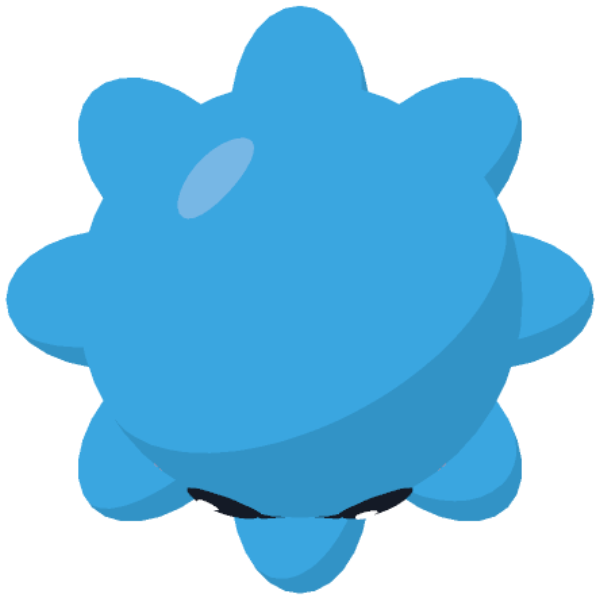
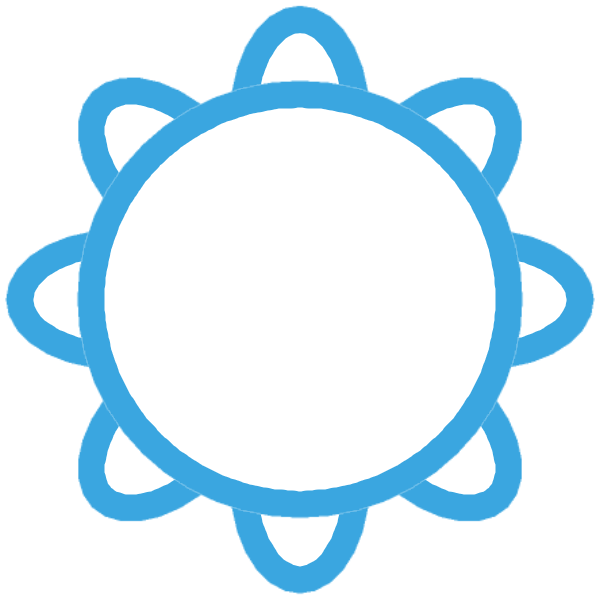
Make the loader Poulpy's outline, swinging 45 degrees back and forth
PoulpyLoader on both phones follows the shared LoaderSwing; CpPoulpyLoader and
MobilePoulpyLoader are the same component in the workshop.

Claude-Session: https://claude.ai/code/session_01LFUsjexABN41RRrjTpdYy6

diff --git a/app-android/src/main/kotlin/ch/coachpoulpy/android/ui/PoulpyLoader.kt b/app-android/src/main/kotlin/ch/coachpoulpy/android/ui/PoulpyLoader.kt
@@ -18,10 +18,11 @@ import androidx.compose.ui.res.stringResource
 import androidx.compose.ui.unit.Dp
 import androidx.compose.ui.unit.dp
 import ch.coachpoulpy.android.R
+import ch.coachpoulpy.shared.LoaderSwing
 
 /**
- * The loading indicator: a picture of the 3D Poulpy seen from above, turning clockwise (the top moves left to right) once
- * every 2.4 s, or every 10 s when the phone's animations are turned off.
+ * The loading indicator: Poulpy's outline seen from above, swinging 45 degrees clockwise and back again, forever, once every
+ * 2.4 s (10 s when the phone's animations are turned off). The swing itself is [LoaderSwing] in the shared code.
  */
 @Composable
 fun PoulpyLoader(modifier: Modifier = Modifier, size: Dp = 48.dp) {
@@ -30,13 +31,13 @@ fun PoulpyLoader(modifier: Modifier = Modifier, size: Dp = 48.dp) {
     // scale, so Poulpy still turns, only slowly.
     val periodMillis = remember(context) {
         val scale = Settings.Global.getFloat(context.contentResolver, Settings.Global.ANIMATOR_DURATION_SCALE, 1f)
-        if (scale == 0f) REDUCED_TURN_MILLIS else TURN_MILLIS
+        if (scale == 0f) LoaderSwing.REDUCED_MILLIS else LoaderSwing.MILLIS
     }
     var degrees by remember { mutableFloatStateOf(0f) }
     LaunchedEffect(periodMillis) {
         val start = withFrameMillis { it }
         while (true) {
-            withFrameMillis { now -> degrees = ((now - start) % periodMillis) * 360f / periodMillis }
+            withFrameMillis { now -> degrees = LoaderSwing.degrees(now - start, periodMillis) }
         }
     }
     Image(
@@ -45,6 +46,3 @@ fun PoulpyLoader(modifier: Modifier = Modifier, size: Dp = 48.dp) {
         modifier = modifier.size(size).graphicsLayer { rotationZ = degrees },
     )
 }
-
-private const val TURN_MILLIS = 2_400L
-private const val REDUCED_TURN_MILLIS = 10_000L

diff --git a/web/storybook/stories/mobile/components/index.ts b/web/storybook/stories/mobile/components/index.ts
@@ -5,6 +5,7 @@ import MobileSelectField from './MobileSelectField.vue'
 import MobileIcon from './MobileIcon.vue'
 import MobileNextCard from './MobileNextCard.vue'
 import MobilePoulpyCard from './MobilePoulpyCard.vue'
+import MobilePoulpyLoader from './MobilePoulpyLoader.vue'
 import MobileTentacleRing from './MobileTentacleRing.vue'
 import MobileFormatChip from './MobileFormatChip.vue'
 import MobileRoleTag from './MobileRoleTag.vue'
@@ -22,4 +23,4 @@ import MobileSettingsRow from './MobileSettingsRow.vue'
 import MobileStatTile from './MobileStatTile.vue'
 
 /** The Vue components a phone screen's markup can use, by the name its template writes. */
-export const mobileComponents = { MobileIcon, MobileBadge, MobileInfoCard, MobileOptionRow, MobileSelectField, MobileNextCard, MobilePoulpyCard, MobileTentacleRing, MobileFormatChip, MobileRoleTag, MobileSearchField, MobileSheet, MobileSheetHandle, MobileTabs, MobileButton, MobileExerciseRow, MobileFilterChip, MobileIconButton, MobileInfoButton, MobileNavBar, MobileSettingsRow, MobileStatTile }
+export const mobileComponents = { MobileIcon, MobileBadge, MobileInfoCard, MobileOptionRow, MobileSelectField, MobileNextCard, MobilePoulpyCard, MobilePoulpyLoader, MobileTentacleRing, MobileFormatChip, MobileRoleTag, MobileSearchField, MobileSheet, MobileSheetHandle, MobileTabs, MobileButton, MobileExerciseRow, MobileFilterChip, MobileIconButton, MobileInfoButton, MobileNavBar, MobileSettingsRow, MobileStatTile }

diff --git a/shared/src/jvmTest/kotlin/ch/coachpoulpy/shared/LoaderSwingTest.kt b/shared/src/jvmTest/kotlin/ch/coachpoulpy/shared/LoaderSwingTest.kt
@@ -1,0 +1,39 @@
+package ch.coachpoulpy.shared
+
+import kotlin.test.Test
+import kotlin.test.assertEquals
+import kotlin.test.assertTrue
+
+class LoaderSwingTest {
+    @Test
+    fun startsUprightAndReachesAFortyFiveDegreeTurnHalfwayThroughTheCycle() {
+        assertEquals(0f, LoaderSwing.degrees(0))
+        assertEquals(45f, LoaderSwing.degrees(LoaderSwing.MILLIS / 2), 0.001f)
+    }
+
+    @Test
+    fun turnsBackToUprightAndRepeatsForever() {
+        assertEquals(0f, LoaderSwing.degrees(LoaderSwing.MILLIS), 0.001f)
+        assertEquals(LoaderSwing.degrees(300), LoaderSwing.degrees(300 + 5 * LoaderSwing.MILLIS), 0.001f)
+    }
+
+    @Test
+    fun theWayBackMirrorsTheWayThere() {
+        assertEquals(LoaderSwing.degrees(500), LoaderSwing.degrees(LoaderSwing.MILLIS - 500), 0.001f)
+    }
+
+    @Test
+    fun easesIntoEachEndInsteadOfMovingAtASteadyRate() {
+        // A steady rate would have turned a quarter of the way after a quarter of the way there; easing is behind it.
+        val quarterOfTheWayThere = LoaderSwing.degrees(LoaderSwing.MILLIS / 8)
+        assertTrue(quarterOfTheWayThere < LoaderSwing.DEGREES / 4, "$quarterOfTheWayThere")
+    }
+
+    @Test
+    fun neverLeavesTheSwing() {
+        for (ms in 0L..LoaderSwing.REDUCED_MILLIS step 97) {
+            val degrees = LoaderSwing.degrees(ms, LoaderSwing.REDUCED_MILLIS)
+            assertTrue(degrees in 0f..LoaderSwing.DEGREES + 0.001f, "$degrees at $ms ms")
+        }
+    }
+}

diff --git a/app-ios/CoachPoulpy/PoulpyLoader.swift b/app-ios/CoachPoulpy/PoulpyLoader.swift
@@ -1,19 +1,20 @@
 import SwiftUI
+import Shared
 
-/// The loading indicator: a picture of the 3D Poulpy seen from above, turning clockwise (the top moves left to right) once
-/// every 2.4 s, or every 10 s with Reduce Motion.
+/// The loading indicator: Poulpy's outline seen from above, swinging 45 degrees clockwise and back again, forever, once every
+/// 2.4 s (10 s with Reduce Motion). The swing itself is `LoaderSwing` in the shared code.
 struct PoulpyLoader: View {
     var size: CGFloat = 48
     @Environment(\.accessibilityReduceMotion) private var reduceMotion
 
     var body: some View {
-        let period = reduceMotion ? 10.0 : 2.4
+        let period = reduceMotion ? LoaderSwing.shared.REDUCED_MILLIS : LoaderSwing.shared.MILLIS
         TimelineView(.animation) { timeline in
-            let seconds = timeline.date.timeIntervalSinceReferenceDate
+            let millis = Int64(timeline.date.timeIntervalSinceReferenceDate * 1000)
             Image("PoulpyLoader")
                 .resizable()
                 .frame(width: size, height: size)
-                .rotationEffect(.degrees(seconds.truncatingRemainder(dividingBy: period) / period * 360))
+                .rotationEffect(.degrees(Double(LoaderSwing.shared.degrees(elapsedMillis: millis, periodMillis: period))))
         }
         .accessibilityElement()
         .accessibilityLabel(Text("common.loading"))

diff --git a/web/storybook/stories/mobile/screens/screens.css b/web/storybook/stories/mobile/screens/screens.css
@@ -958,9 +958,11 @@
 .cp-screen .text-button { flex: 1; height: 48px; border-radius: var(--cp-radius-pill); font-size: 15px; font-weight: 800; display: flex; align-items: center; justify-content: center; }
 .cp-screen .section-link { margin: 0 var(--cp-space-xs); font-size: 15px; font-weight: 800; color: var(--cp-primary); }
 .cp-screen .lead { margin: 0 var(--cp-space-xs); font-size: 14px; line-height: 20px; color: var(--cp-on-surface-variant); }
-@keyframes poulpy-spin { to { transform: rotate(360deg); } }
-.cp-screen .spin { animation: poulpy-spin 2.4s linear infinite; }
-@media (prefers-reduced-motion: reduce) { .cp-screen .spin { animation-duration: 10s; } }
+/* The loader: Poulpy's outline swinging 45 degrees one way and back, forever (LoaderSwing in the shared code). */
+.cp-screen .poulpy-loader { display: inline-block; }
+.cp-screen .poulpy-loader img { display: block; width: 100%; height: 100%; animation: poulpy-swing 2.4s ease-in-out infinite; }
+@keyframes poulpy-swing { 50% { transform: rotate(45deg); } }
+@media (prefers-reduced-motion: reduce) { .cp-screen .poulpy-loader img { animation-duration: 10s; } }
 
 /* ---------- Exercise search, equipment sheet, variations sheet ---------- */
 

diff --git a/web/storybook/stories/CpPoulpyLoader.stories.ts b/web/storybook/stories/CpPoulpyLoader.stories.ts
@@ -1,0 +1,28 @@
+import type { Meta, StoryObj } from '@storybook/vue3-vite'
+import { expect, within } from 'storybook/test'
+import { CpPoulpyLoader } from '@coach-poulpy/ui'
+import doc from './CpPoulpyLoader.md?raw'
+
+const meta = {
+  title: 'Web/Components/Display/Poulpy loader',
+  component: CpPoulpyLoader,
+  argTypes: { size: { control: { type: 'range', min: 16, max: 160, step: 8 } } },
+  parameters: { docs: { description: { component: doc } } },
+} satisfies Meta<typeof CpPoulpyLoader>
+export default meta
+type Story = StoryObj<typeof meta>
+
+export const Default: Story = {
+  play: async ({ canvasElement }) => {
+    // A status a screen reader announces, in the page's language.
+    expect(within(canvasElement).getByRole('status', { name: 'Loading' })).toBeInTheDocument()
+  },
+}
+export const Large: Story = { args: { size: 112 } }
+export const Small: Story = { args: { size: 16 } }
+export const SaysWhatLoads: Story = {
+  args: { label: 'Loading your sessions' },
+  play: async ({ canvasElement }) => {
+    expect(within(canvasElement).getByRole('status', { name: 'Loading your sessions' })).toBeInTheDocument()
+  },
+}

diff --git a/shared/src/commonMain/kotlin/ch/coachpoulpy/shared/LoaderSwing.kt b/shared/src/commonMain/kotlin/ch/coachpoulpy/shared/LoaderSwing.kt
@@ -1,0 +1,23 @@
+package ch.coachpoulpy.shared
+
+import kotlin.math.abs
+
+/**
+ * How the loader moves: Poulpy, seen from above, turns [DEGREES] one way and then the same back the other way, over and over,
+ * easing in and out of each end. One there-and-back takes [MILLIS], or [REDUCED_MILLIS] when the phone asks for less motion.
+ * Android and iOS only ask where he is at a given time and draw the loader picture turned by that many degrees.
+ */
+object LoaderSwing {
+    const val DEGREES = 45f
+    const val MILLIS = 2_400L
+    const val REDUCED_MILLIS = 10_000L
+
+    /** The turn, from 0 to [DEGREES], [elapsedMillis] after the loader appeared; it starts upright and turns clockwise first. */
+    fun degrees(elapsedMillis: Long, periodMillis: Long = MILLIS): Float {
+        val phase = (elapsedMillis % periodMillis).toFloat() / periodMillis
+        // 0 to 1 on the way there, 1 to 0 on the way back.
+        val way = 1f - abs(2f * phase - 1f)
+        // Smoothstep: slow at both ends so he seems to settle before he turns back.
+        return DEGREES * way * way * (3f - 2f * way)
+    }
+}

diff --git a/web/storybook/stories/mobile/PoulpyLoader.stories.ts b/web/storybook/stories/mobile/PoulpyLoader.stories.ts
@@ -1,0 +1,16 @@
+import type { Meta, StoryObj } from '@storybook/vue3-vite'
+import { renderComponent } from './components/story'
+
+const meta = {
+  title: 'Mobile/Components/Poulpy loader',
+  render: renderComponent('MobilePoulpyLoader', undefined, { content: '' }),
+  args: { size: 48, label: 'Loading' },
+  argTypes: { size: { control: { type: 'range', min: 16, max: 160, step: 8 } } },
+  parameters: { docs: { canvas: { sourceState: 'none' }, description: { component: '`MobilePoulpyLoader`: the loading indicator, Poulpy\'s outline seen from above, swinging 45 degrees one way and back, forever, once every 2.4 s (10 s with reduced motion). It replaces spinners: 16 in a row, 48 in a list, 112 on a full page. `label` says what is loading, for a screen reader.' } } },
+} satisfies Meta
+export default meta
+type Story = StoryObj<typeof meta>
+
+export const Default: Story = {}
+export const Page: Story = { args: { size: 112, label: 'Searching for devices' } }
+export const InARow: Story = { args: { size: 16 } }

diff --git a/web/ui/src/components/CpPoulpyLoader.vue b/web/ui/src/components/CpPoulpyLoader.vue
@@ -1,0 +1,17 @@
+<script setup lang="ts">
+// The loading indicator: Poulpy's outline seen from above, swinging 45 degrees one way and back again, forever (the
+// swing is the CSS of .cp-poulpy-loader; the phones' is LoaderSwing in the shared code). It is a status, so a screen
+// reader hears `label`, which says "Loading" in the page's language unless the page says what is loading.
+import { computed } from 'vue'
+import { poulpyDrawings } from '../poulpy'
+import { uiText } from '../i18n'
+
+const props = withDefaults(defineProps<{ label?: string; size?: number }>(), { size: 48 })
+const words = computed(() => props.label ?? uiText('ui.loading'))
+</script>
+
+<template>
+  <span class="cp-poulpy-loader" role="status" :aria-label="words" :style="{ '--cp-poulpy-loader-size': `${size}px` }" data-component="poulpy-loader">
+    <img :src="poulpyDrawings.loader" alt="" aria-hidden="true" />
+  </span>
+</template>

diff --git a/web/ui/src/theme.css b/web/ui/src/theme.css
@@ -298,6 +298,25 @@
     height: auto;
   }
 
+  /* The loading indicator: Poulpy's outline, swinging 45 degrees one way and back, forever. With reduced motion it is slow. */
+  .cp-poulpy-loader {
+    display: inline-block;
+    width: var(--cp-poulpy-loader-size, 48px);
+    height: var(--cp-poulpy-loader-size, 48px);
+  }
+  .cp-poulpy-loader img {
+    display: block;
+    width: 100%;
+    height: 100%;
+    animation: cp-poulpy-swing 2.4s ease-in-out infinite;
+  }
+  @keyframes cp-poulpy-swing {
+    50% { transform: rotate(45deg); }
+  }
+  @media (prefers-reduced-motion: reduce) {
+    .cp-poulpy-loader img { animation-duration: 10s; }
+  }
+
   /* An error is crimson, always with an icon and words: never ember. */
   .cp-error-note {
     border-radius: var(--cp-radius-md);

diff --git a/web/storybook/stories/mobile/screens/settings-and-devices/device-add.html b/web/storybook/stories/mobile/screens/settings-and-devices/device-add.html
@@ -2,7 +2,7 @@
   <header class="page-bar"><button type="button" class="icon-button" aria-label="Back to devices"><MobileIcon name="chevron-left" :size="22" /></button><h1>Add a device</h1></header>
   <div class="settings-body" style="padding-top: var(--cp-space-md); gap: var(--cp-space-md);">
     <section class="search-card" id="search">
-      <img class="spin" src="../../../poulpy/loader.svg" alt="Poulpy spinning while he searches" width="112" height="112">
+      <MobilePoulpyLoader :size="112" label="Poulpy is searching for devices" />
       <h2 role="status">Searching nearby devices…</h2>
       <p>Treadmills, foot pods and heart rate bands. Wake your device up and stay close to it.</p>
       <button type="button" class="outline-button">Stop searching</button>

diff --git a/web/storybook/stories/mobile/components/MobilePoulpyLoader.vue b/web/storybook/stories/mobile/components/MobilePoulpyLoader.vue
@@ -1,0 +1,14 @@
+<script setup lang="ts">
+// The loading indicator on a phone: Poulpy's outline seen from above, swinging 45 degrees one way and back, forever. The
+// app's PoulpyLoader does the same with LoaderSwing of the shared code. `size` is its width; `label` is what a screen reader
+// hears (what is loading).
+import { poulpyDrawings } from '@coach-poulpy/ui'
+
+withDefaults(defineProps<{ size?: number; label?: string }>(), { size: 48, label: 'Loading' })
+</script>
+
+<template>
+  <span class="poulpy-loader" role="status" :aria-label="label" :style="{ width: `${size}px`, height: `${size}px` }" data-component="poulpy-loader">
+    <img :src="poulpyDrawings.loader" alt="" aria-hidden="true">
+  </span>
+</template>
